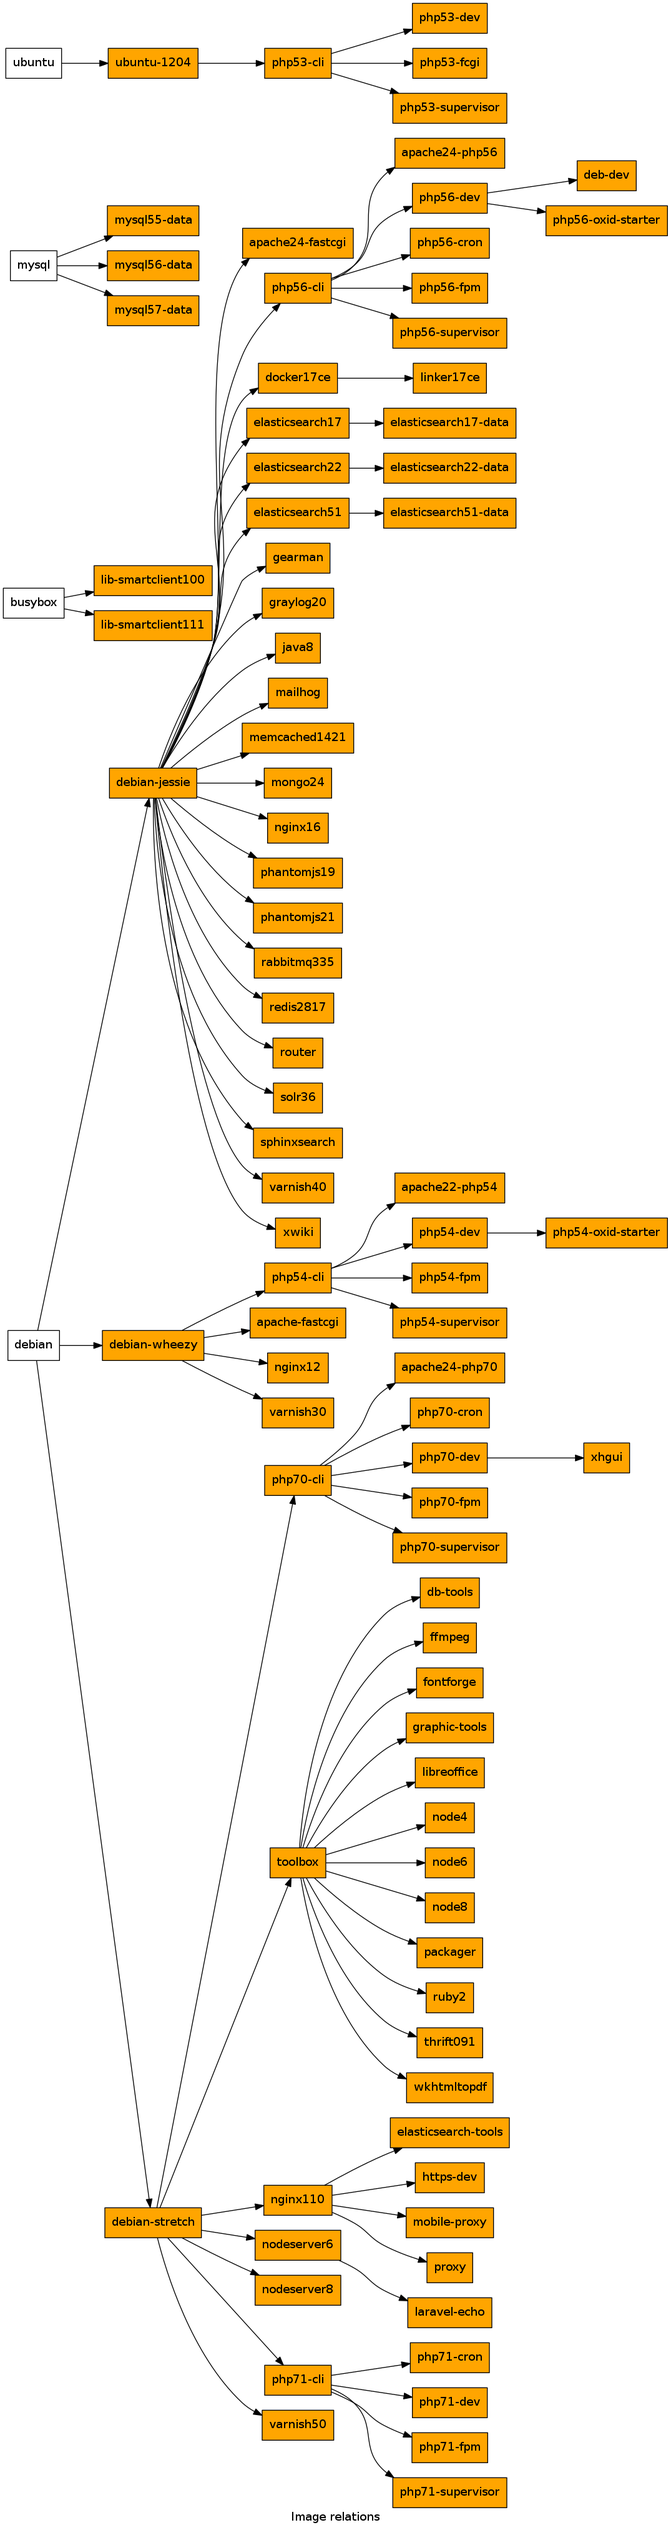
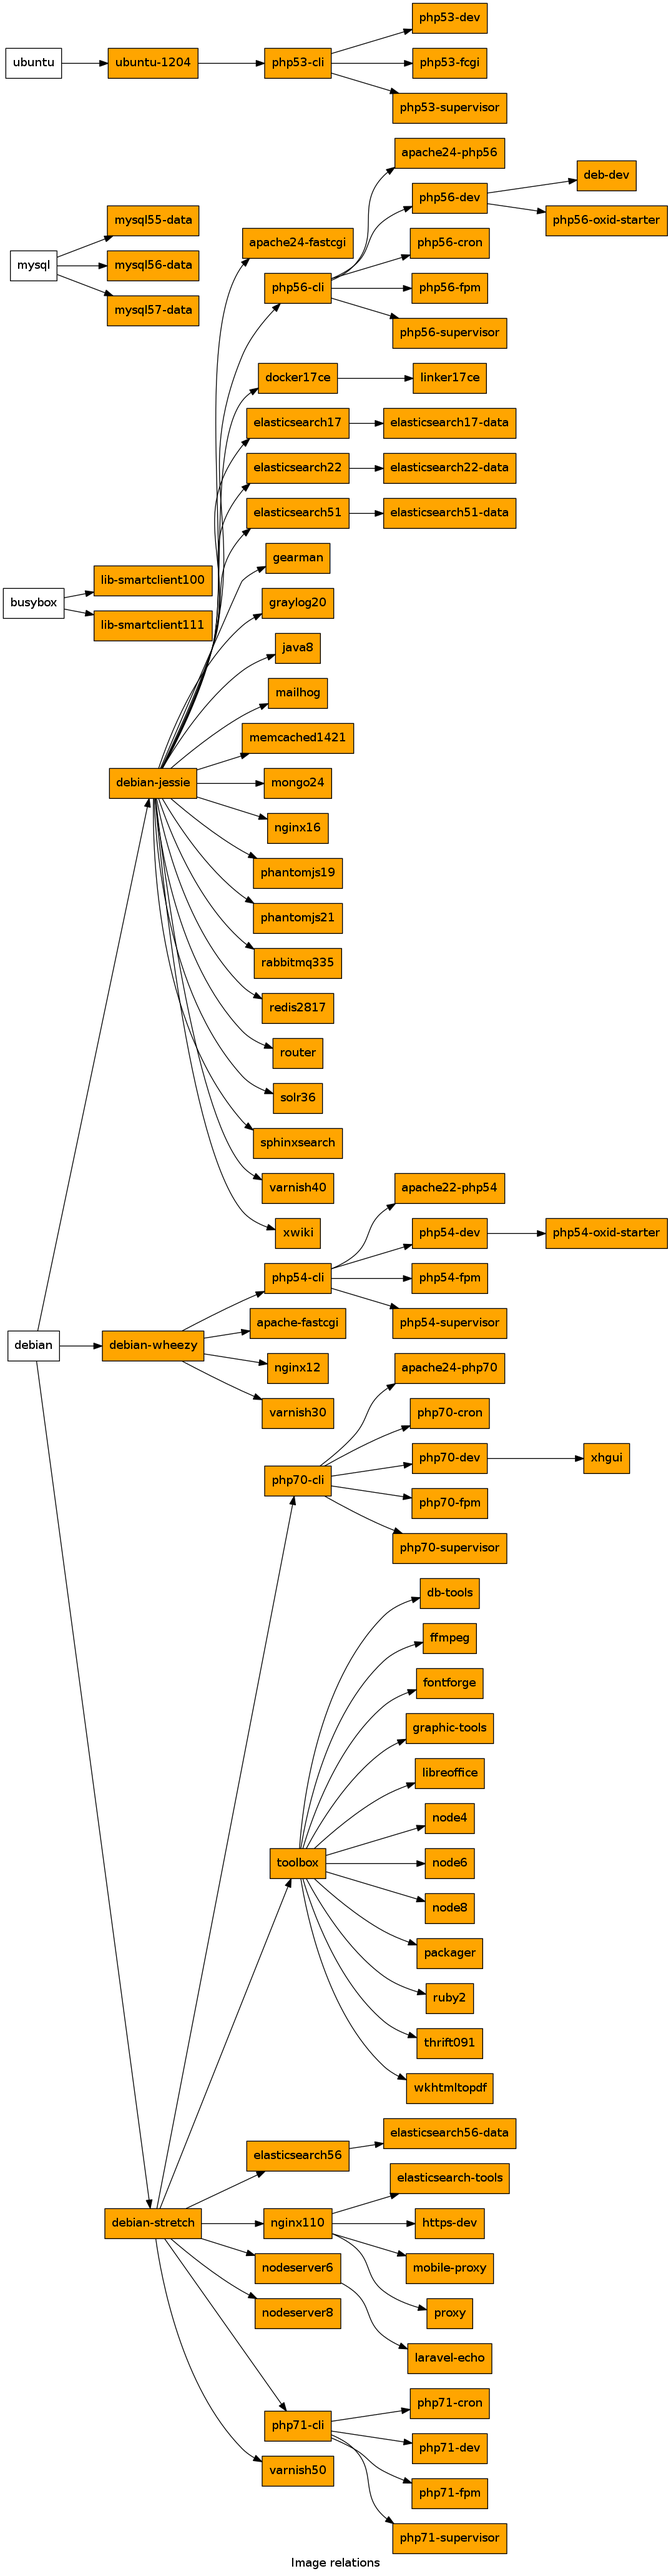
Added elasticsearch 5.6.3 image and its data

diff --git a/elasticsearch56/README.md b/elasticsearch56/README.md
@@ -1,0 +1,22 @@
+## elasticsearch 5.6
+
+### Sample configuration
+
+```
+elasticsearch:
+  image: nfqlt/elasticsearch56
+  ports:
+    - "10.24.0.0:9200:9200"
+  volumes_from:
+    - elasticsearchVol
+  environment:
+    NFQ_ENABLE_ELASTIC_MODULES: 'analysis-icu'
+
+
+elasticsearchVol:
+  image: nfqlt/elasticsearch56-data
+  volumes:
+    - /var/elasticsearch/data
+
+```
+
